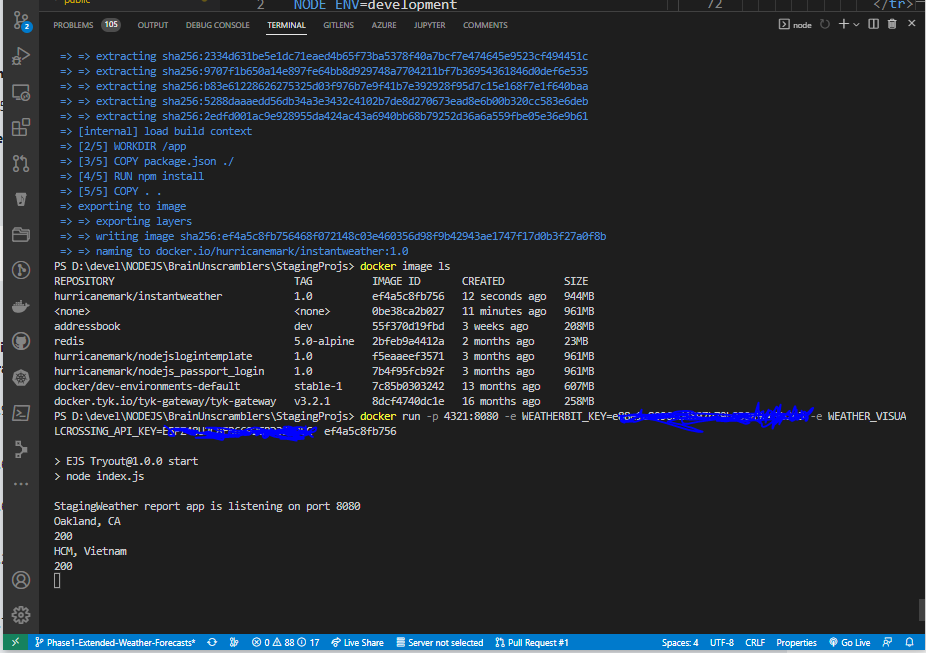
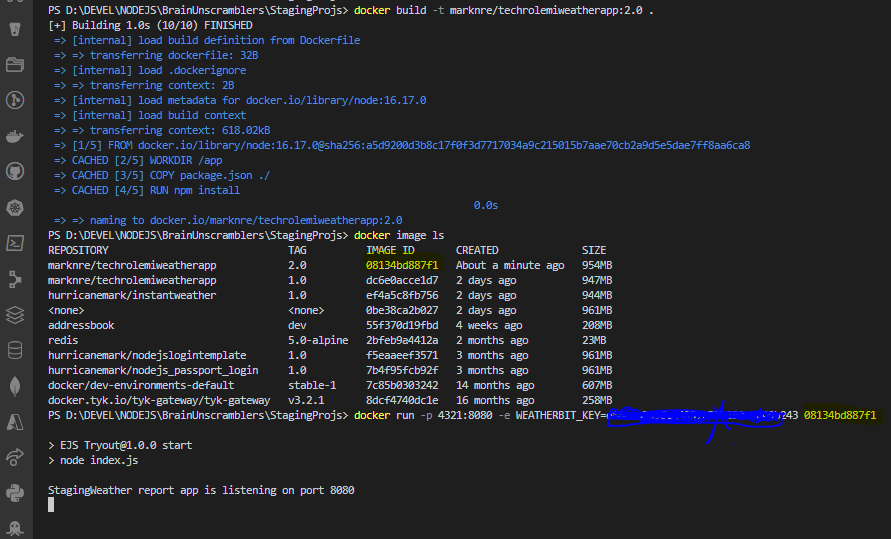
modified:   README.md 	new file:   public/DockerImage.JPG 	modified:   public/DockerImage.PNG

diff --git a/README.md b/README.md
@@ -140,9 +140,11 @@ docker build -t marknre/techrolemiweatherapp:2.0 .
 **List the image**
 
 ```c
-PS D:\DEVEL\NODEJS\BrainUnscramblers\LocalWeather> docker image ls
-REPOSITORY                   TAG         IMAGE ID       CREATED         SIZE
-hurricanemark/localweather   1.0         bb89b0646be4   6 minutes ago   949MB
+PS D:\DEVEL\NODEJS\BrainUnscramblers\StagingProjs> docker image ls
+REPOSITORY                              TAG          IMAGE ID       CREATED              SIZE
+marknre/techrolemiweatherapp            2.0          08134bd887f1   About a minute ago   954MB
+marknre/techrolemiweatherapp            1.0          dc6e0acce1d7   2 days ago           947MB
+
 ```
 
 
@@ -161,7 +163,6 @@ Notice that environment variables (secret keys) required to run the app is not b
 Notice also that Dockerfile exposes port 8080.  This needs to be forwarded to a port on your local machine.  i.e. `LOCAL_PORT:CONTAINER_PORT` for example  *4321:8080*
 
 `docker run -p 4321:8080 -e  WEATHERBIT_KEY=Actual_Secret_Key_for_Weatherbit  bb89b0646be4`
-
 
 
 <br />
